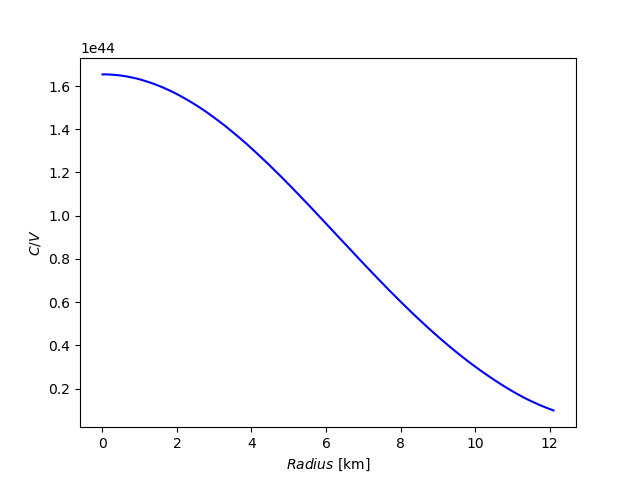
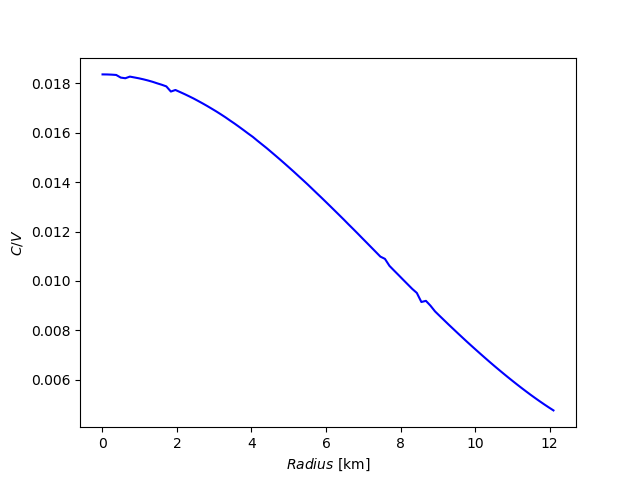
ok

diff --git a/cap_rate/MC_cap.c b/cap_rate/MC_cap.c
@@ -52,7 +52,7 @@ double OmegaIntegral(double dm, double muFn, double vmax, double DMvel){
 
   gsl_monte_function G = { &OmegaIntegrand, 3, &params }; // {function, dimension, params}
 
-  size_t calls = 500000;
+  size_t calls = 5000000;
 
   gsl_rng_env_setup ();
 
@@ -207,6 +207,50 @@ double capture_rate (double rmin, double rmax){
    return result;
 }
 
+//=========================================================
+
+struct rint_params {double dm_mass; int npts;};
+
+double r_integrand(double r, void *p){
+
+  struct rint_params *params3 = (struct rint_params *)p;
+
+  double dm = (params3->dm_mass);
+  int npts = (params3->npts);
+
+  double nd = nd_interp(r, npts) * 1e+45; // m^-3
+  double muFn = muFn_interp(r, npts);
+  double vmax = esc_vel_full(r, npts);
+  double ndfree = pow(2.*NM*muFn,1.5)/3./M_PI/M_PI/hbarc/hbarc/hbarc * 1e+45; // m^-3
+
+  return prefactors(dm)*r*r*1e6*OmegaIntegral(dm, muFn, vmax, 0)*nd*nd/ndfree;
+
+}
+
+
+//=========================================================
+
+double r_integral (double dm, double npts){
+
+   double result, error;
+
+   struct rint_params params3 = {dm, npts};
+
+   gsl_integration_workspace * w = gsl_integration_workspace_alloc (1000);
+
+   gsl_function F;
+
+   F.function = &r_integrand;
+   F.params = &params3;
+
+   size_t limit;
+   gsl_integration_qag (&F, rmin, rmax, 1.e-6, 1.e-6,1000,6, w, &result, &error);
+
+
+   gsl_integration_workspace_free (w);
+
+   return result;
+}
 
 //=========================================================
 
@@ -242,7 +286,7 @@ int main ()
 
 
 
-    double testmass = 1.;
+    double testmass = 1e-3;
 
     int range = 20;
     double mass_vals[range];
@@ -250,44 +294,40 @@ int main ()
 
     logspace(-6, 1, range, mass_vals);
 
+    double full_cap = r_integral(testmass, npts);
+    printf("%0.10E\t%0.10E\n", testmass, cap_full);
+
+
     // FILE *outfile = fopen("complete_caprate.dat", "w");
 
     // for (j = 0; j < range; j++){
-	// printf("mass = %0.10E\n", mass_vals[j] );
-	
-    // FILE *outfile = fopen("cap_rate_rad.dat", "w");
+    // printf("mass = %0.10E\n", mass_vals[j] );
 
-    for (i = 0; i < Nrpts; i++){
-       radint[i] = rmin + ((double) i)*(rmax-rmin)/(Nrpts-1);
-       double nd = nd_interp(radint[i], npts) * 1e+45; // m^-3
-       double muFn = muFn_interp(radint[i], npts);
-       double vmax = sqrt( potnl(radint[i], rmax, npts) + ev_out);
-       double ndfree = pow(2.*NM*muFn,1.5)/3./M_PI/M_PI/hbarc/hbarc/hbarc * 1e+45; // m^-3
-       //double Br = B_r(vmax);
-
-       //dCdr[i] = OmegaIntegral( 1., muFn, vmax )*sqrt(1.-Br)/Br/Br;
-       dCdr[i] = prefactors(testmass) * constCS() * OmegaIntegral( testmass, muFn, vmax, 0)* nd*nd/ndfree ;
-
-      //  fprintf(outfile,"%0.10E\t%.10E\t%.10E\t%0.10E\t%0.10E\n", radint[i], dCdr[i] , nd*nd/ndfree, dCdr[i]/(nd*nd/ndfree), vmax/SOL);
-       //dCdr[i] = log(radint[i] * radint[i] *1e6 * nd_interp(radint[i], npts) /nresc*OmegaIntegral( mass_vals[j], muFn, vmax ));
-    }
-
-
-   double cap_full = capture_rate(rmin, rmax);
-   
-   printf("%0.10E\t%0.10E\n", testmass, cap_full);
- //   printf("%0.10E\n", test);
-
-
-
-
-
-
-//       fprintf(outfile,"%0.10E\t%.10E\n", mass_vals[j], capture_rate(rmin, rmax)*1e3);
-
-   // }
-
-   // fclose(outfile);
+//     FILE *outfile = fopen("cap_rate_rad.dat", "w");
+// //
+//     for (i = 0; i < Nrpts; i++){
+//        radint[i] = rmin + ((double) i)*(rmax-rmin)/(Nrpts-1);
+//        double nd = nd_interp(radint[i], npts) * 1e+45; // m^-3
+//        double muFn = muFn_interp(radint[i], npts);
+//        double vmax = esc_vel_full(radint[i],  npts);
+//        double ndfree = pow(2.*NM*muFn,1.5)/3./M_PI/M_PI/hbarc/hbarc/hbarc * 1e+45; // m^-3
+//        //double Br = B_r(vmax);
+//
+//        //dCdr[i] = OmegaIntegral( 1., muFn, vmax )*sqrt(1.-Br)/Br/Br;
+//        dCdr[i] = prefactors(testmass) * constCS() * OmegaIntegral( testmass, muFn, vmax, 0)* nd*nd/ndfree; //* radint[i] * radint[i]* 1e6 ;
+//
+//        fprintf(outfile,"%0.10E\t%.10E\t%.10E\t%0.10E\t%0.10E\n", radint[i], dCdr[i] , nd*nd/ndfree, dCdr[i]/(nd*nd/ndfree), vmax/SOL);
+//        //dCdr[i] = log(radint[i] * radint[i] *1e6 * nd_interp(radint[i], npts) /nresc*OmegaIntegral( mass_vals[j], muFn, vmax ));
+//     }
+//
+//
+//   //  double cap_full = capture_rate(rmin, rmax);
+//
+// //       fprintf(outfile,"%0.10E\t%.10E\n", mass_vals[j], capture_rate(rmin, rmax)*1e3);
+//
+//    // }
+//
+  //  fclose(outfile);
 
     end = clock();
   	total_time = ((double) (end - start)) / CLOCKS_PER_SEC/60;

diff --git a/cap_rate/NSinterp.c b/cap_rate/NSinterp.c
@@ -274,9 +274,9 @@ double potnl(double rad1, double rad2, int np){
 
 //=========================================================
 
-double esc_vel(double radius, int npts){ //rad in km
+double esc_vel_full(double radius, int npts){ //rad in km
     //return ESCAPE_VEL;
-    return sqrt((2.0 * Grav * mass_interp(radius, npts) * 2E30) /radius/1e3);
+    return sqrt( potnl(radius, rmax, npts) + (2.0 * Grav * mass_interp(rmax, npts) * 2E30) /rmax/1e3);
 }
 
 //=========================================================

diff --git a/cap_rate/cap_funcs.c b/cap_rate/cap_funcs.c
@@ -175,7 +175,7 @@ double OmegaIntegrand(double *x, size_t dim, void *p){
 		double dmvel = (params->DMvel);
 
     return x[0] * x[2] * heaviside_product(x[1], x[2], w_init(escvel, dmvel), x[0]) *
-		 FD(x[1], x[2], w_init(escvel, dmvel), chempot, dm) * (1.0 - FD(x[1], x[2], x[0], chempot, dm))*mom4CS(x[1], x[2], escvel ,x[0]);
+		 FD(x[1], x[2], w_init(escvel, dmvel), chempot, dm) * (1.0 - FD(x[1], x[2], x[0], chempot, dm));
 
 }
 

diff --git a/cap_rate/NSinterp.h b/cap_rate/NSinterp.h
@@ -20,6 +20,6 @@ double potn_integrand(double rad, void *p);
 
 double potnl(double rad1, double rad2, int np);
 
-double esc_vel(double radius, int npts);
+double esc_vel_full(double radius, int npts);
 
 double B_r(double escvel);
